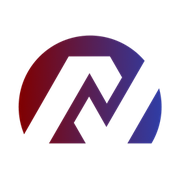
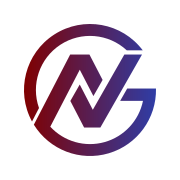
Add files via upload

diff --git a/index.html b/index.html
@@ -13,14 +13,15 @@
 <meta property="og:title" content="Nunn Group | Operations and HR consulting in Chicago">
 <meta property="og:description" content="Executive-level operations, HR, and planning consulting for small businesses and nonprofits. Work directly with Marc Nunn. Book a free 30-minute call.">
 <meta property="og:url" content="https://www.nunngroupllc.com/">
-<meta property="og:image" content="https://www.nunngroupllc.com/assets/img/og-image.jpg">
+<meta property="og:image" content="https://www.nunngroupllc.com/assets/img/og-image.jpg?v=2">
 <meta property="og:image:width" content="1200">
 <meta property="og:image:height" content="630">
 <meta property="og:image:alt" content="Nunn Group: executive-level operations and people strategy for organizations ready to grow">
 <meta name="twitter:card" content="summary_large_image">
-<link rel="icon" href="favicon.ico" sizes="any">
-<link rel="icon" href="assets/img/icon-192.png" type="image/png" sizes="192x192">
-<link rel="apple-touch-icon" href="apple-touch-icon.png">
+<link rel="icon" href="favicon.ico?v=2" sizes="32x32">
+<link rel="icon" href="favicon.svg?v=2" type="image/svg+xml">
+<link rel="icon" href="assets/img/icon-192.png?v=2" type="image/png" sizes="192x192">
+<link rel="apple-touch-icon" href="apple-touch-icon.png?v=2">
 <link rel="preload" href="assets/fonts/geist-variable.woff2" as="font" type="font/woff2" crossorigin>
 <link rel="stylesheet" href="assets/css/site.css?v=20261112">
 <!-- Opening logo animation. To turn it off, delete the next line. -->
@@ -49,7 +50,7 @@
 <header class="site-head">
   <div class="wrap head-in">
     <a class="brand" href="#top" aria-label="Nunn Group LLC, back to top">
-      <img src="assets/img/logo-white.png" alt="Nunn Group LLC" width="505" height="160">
+      <img src="assets/img/logo-white.svg" alt="Nunn Group LLC" width="449" height="160">
     </a>
     <nav class="nav" aria-label="Main">
       <a href="#services">Services</a>
@@ -499,7 +500,7 @@
   <div class="wrap">
     <div class="foot-top">
       <div class="foot-brand">
-        <img src="assets/img/logo-color.png" alt="Nunn Group LLC" width="505" height="160" loading="lazy" decoding="async">
+        <img src="assets/img/logo-color.svg" alt="Nunn Group LLC" width="449" height="160" loading="lazy" decoding="async">
         <p>Turning complexity into clarity. Operations and people strategy for businesses and&nbsp;nonprofits.</p>
       </div>
       <div class="foot-col">
@@ -843,46 +844,54 @@
 })();
 </script>
 <script>
-// Logo intro: plays once per visit (add ?intro to the address to replay it).
-// The sun rises, the N is etched through it, then the logo glides into the header.
+// Logo intro: plays once every 30 days on each device (add ?intro to the address to replay it).
+// The sun rises, the NG monogram is etched out of it, then the logo glides into the header.
 (function () {
   var root = document.documentElement, host = document.getElementById('intro');
   if (!root.classList.contains('intro-on') || !host) { root.classList.remove('intro-on'); return; }
-  var G = {"cx":105.59,"cy":105.46,"r":104.63,"fills":["M134.62 31.50 L74.12 31.75 L6.13 150.20 L9.41 167.10 L46.25 167.10 L42.88 162.95 L104.73 55.67 L130.07 100.84 L152.12 62.62 Z","M129.75 134.50 L104.18 90.13 L82.00 128.25 L101.83 163.34 L98.50 167.10 L161.25 167.10 L158.00 162.70 L209.50 73.55 L210.72 65.01 L205.19 52.89 L188.91 33.20 Z"],"traces":[["M45.10 159.10 L104.73 55.67 L130.07 100.84 L152.12 62.62 L134.62 31.50 L74.12 31.75 L9.12 145.00"],["M160.08 159.10 L206.50 78.75","M185.88 38.38 L129.75 134.50 L104.18 90.13 L82.00 128.25 L99.43 159.10"]],"word":"M358.8 145C357.4 145 356.1 144.8 355.1 144.4C354.6 144.3 353.9 144.1 353.6 144C353 143.8 350.9 142.8 349.9 142.2C348.2 141.2 346.1 139.2 344.9 137.6C344.1 136.6 343.1 134.8 342.9 134.2C342.8 134 342.6 133.7 342.5 133.5C342.4 133.3 342.1 132.8 342 132.3C341.9 131.8 341.7 131.1 341.5 130.7C341.4 130.3 341.1 129.3 341 128.6C340.7 126.7 340.7 122 341 120.2C341.2 118.8 342 116.4 342.4 115.4C342.6 115.1 342.9 114.5 343.1 114.1C343.3 113.5 343.7 112.9 344.9 111.2C345.3 110.6 347.3 108.5 347.9 108C349.9 106.5 351.8 105.4 354.1 104.7C356.1 104 357.5 103.8 360.4 103.8C363.3 103.8 364.6 104 366.7 104.7C370 105.8 372.4 107.3 374.7 109.8C375.3 110.5 375.9 111.1 375.9 111.2C376 111.3 376.2 111.7 376.4 111.9C376.8 112.4 377.1 112.9 377.8 114.3C378.6 115.8 378.9 116.6 379 117.2C379.1 117.5 379.3 118.3 379.4 118.8C379.9 120.2 380 121.6 380 124.4C380 127.2 379.9 128.5 379.4 129.9C379.3 130.5 379.1 131.2 379 131.6C378.9 132 378.6 132.7 378.4 133.2C378.2 133.6 378 134.1 378 134.2C378 134.2 377.8 134.6 377.6 135C377.3 135.4 377.1 135.8 377 136C376.8 136.4 376.1 137.4 375.2 138.4C372.4 141.7 369.3 143.6 364.7 144.7C364.3 144.8 363.3 144.9 362.4 145C360.8 145.1 360.4 145.1 358.8 145ZM247.6 144.9C247.1 144.8 246.3 144.6 245.9 144.5C245.4 144.4 244.7 144.2 244.2 144.1C243.8 143.9 243 143.6 242.4 143.4C241.8 143.1 241.3 142.9 241.3 142.9C241.2 142.9 240 142.1 238.8 141.2C237.7 140.5 235.7 138.4 234.9 137.3C234.6 136.9 234.2 136.2 233.9 135.7C233.7 135.2 233.4 134.7 233.3 134.6C233.2 134.5 233.1 134.3 233.1 134.1C233 133.9 232.8 133.3 232.6 132.9C232.4 132.4 232.1 131.5 231.9 130.8C231.8 130 231.5 129 231.4 128.5C231.2 127.7 231.2 127 231.2 124.3C231.2 121.1 231.2 121 231.6 119.5C231.8 118.6 232 117.7 232.1 117.5C232.2 116.8 233.1 114.8 233.8 113.3C235 111.1 237.6 108.4 239.7 107C241.1 106.1 242.8 105.2 243.6 105C243.9 104.9 244.6 104.7 245.1 104.6C246.3 104.1 247.3 104 249.8 103.9C252.1 103.8 254.6 104 255.7 104.3C259.3 105.3 261.5 106.4 263.8 108.5C264.8 109.3 266 110.7 266 110.9C266 110.9 266.2 111.2 266.4 111.4C266.7 111.8 266.9 112.2 267.7 113.6C268.1 114.5 268.6 115.7 268.6 116C268.6 116.2 268.6 116.4 268.5 116.5C268.2 116.7 265.6 116.8 265.2 116.6C264.8 116.4 264 115.5 264 115.2C264 114.9 262.9 113.3 262.1 112.4C261 111.1 258.7 109.4 257.4 108.9C257.1 108.8 256.7 108.6 256.6 108.5C256.1 108.3 255.1 108 253.3 107.7C248.5 107 243.7 108.3 240.5 111.3C239.3 112.5 238.6 113.3 237.9 114.5C237.7 114.9 237.4 115.3 237.3 115.4C237.2 115.5 237.1 115.8 237 116.1C236.9 116.3 236.7 116.8 236.5 117.2C236.2 117.8 235.8 119.6 235.4 121.8C235.3 122.6 235.2 123.5 235.3 125.1C235.3 126.9 235.4 127.5 235.8 129.2C236.1 130.5 236.4 131.4 236.6 131.9C236.8 132.3 237 132.8 237 132.9C237 133.1 237.2 133.4 238.2 134.9C239.2 136.5 239.6 136.9 240.9 138C243.8 140.3 247.1 141.4 251.1 141.4C255 141.4 258 140.4 260.8 138.1C262.1 137 263.4 135.6 264 134.3C264.2 134.1 264.4 133.6 264.6 133.4C264.8 133.2 265 132.7 265.1 132.4C265.1 132.1 265.4 131.6 265.5 131.2C265.8 130.5 266.4 127.5 266.3 127C266.1 126.2 266.3 126.2 258 126.2C253.8 126.3 250.3 126.2 250.2 126.2C249.7 126 249.5 125.1 249.7 124.1C249.9 123.2 249.3 123.3 259.9 123.2C271.2 123.2 269.9 123 270 125.1C270 126.8 269.8 129 269.5 130C269.4 130.4 269.2 131 269.1 131.4C268.9 132.2 267.8 134.9 267.4 135.4C267.3 135.6 267.1 136 267 136.2C266.5 137.3 263.8 140.3 262.4 141.3C259.6 143.2 258.6 143.7 254.9 144.7C254 144.9 248.9 145 247.6 144.9ZM414.9 144.9C413.8 144.7 411.5 143.9 410.4 143.3C408.6 142.4 406.9 140.8 405.9 139.3C405.6 138.9 405.3 138.5 405.3 138.4C405.2 138.4 405.1 138.2 405.1 138C405 137.8 404.8 137.3 404.6 136.9C404.2 135.9 404.2 135.9 403.7 133.9C403.5 133 403.3 131.5 403.2 130.6C403.2 129.7 403.1 123.5 403.1 116.8L403.1 104.7L403.4 104.4C403.7 104.1 403.8 104.1 405.2 104.1C406.4 104.1 406.6 104.2 406.9 104.3L407.1 104.6L407.1 116.4C407.1 123 407.2 129.1 407.2 130C407.4 132.3 408 134.8 408.7 136.1C409.2 137.2 410.2 138.4 410.8 138.9C411 139.1 411.4 139.3 411.6 139.5C412.3 140.1 414.2 140.8 415.2 141C416.6 141.2 419.6 141.2 420.7 141C421.9 140.7 423.7 139.8 424.7 139C425.5 138.3 426.8 136.6 427 136.1C427 135.9 427.2 135.5 427.4 135.1C428.2 133.2 428.2 132.3 428.3 118C428.3 111 428.3 105.1 428.3 104.9C428.4 104.3 428.9 104.1 430.5 104.1C431.5 104.1 431.8 104.2 432 104.4L432.3 104.6L432.4 116.1C432.4 129.9 432.2 133.4 431.6 135.2C431.4 135.6 431.2 136.2 431.1 136.6C430.5 138.2 429.4 140 428 141.3C427.1 142.2 426 143 425.9 143C425.8 143 425.5 143.2 425.1 143.4C424.2 143.9 421.8 144.7 420.6 144.9C419.5 145 416.1 145 414.9 144.9ZM498.8 144.3C497.8 143.8 497 142.9 496.9 142.4C496.9 142.2 496.8 141.8 496.7 141.4C496.5 140.8 496.5 140.7 496.6 140.2C496.7 139.8 496.8 139.3 496.9 139.1C496.9 138.8 497 138.4 497.1 138.3C497.4 137.8 498.5 136.9 498.8 136.9C498.9 136.9 499.2 136.8 499.4 136.6C499.9 136.3 501.1 136.3 501.4 136.6C501.6 136.7 501.9 136.8 502.2 136.9C502.5 137 502.9 137.2 503.3 137.7C504.1 138.5 504.1 138.4 503.9 138.8C503.7 139.1 503.3 139.1 503 138.6C502.8 138.4 502.5 138.1 502.3 138.1C502.1 137.9 501.8 137.7 501.6 137.6C501 136.9 500 136.9 499.5 137.5C499.3 137.6 498.9 137.9 498.7 138C498.3 138.2 498.1 138.3 498.1 138.5C498 138.7 497.8 139.2 497.7 139.6C497.3 140.5 497.3 140.8 497.8 142C498.1 142.7 498.3 142.9 498.6 143.1C498.8 143.2 499.1 143.4 499.2 143.7C499.5 144 499.6 144 500.5 144C501.4 143.9 501.5 143.9 501.8 143.6C502 143.3 502.3 143.1 502.5 143C502.7 142.9 502.9 142.7 503 142.6C503.3 141.9 504.1 142.1 503.9 142.8C503.8 143 502.6 144.2 502.4 144.2C502.3 144.2 502.1 144.4 501.8 144.6C501.4 144.8 501.2 144.9 500.5 144.9C499.8 144.9 499.6 144.8 498.8 144.3ZM294.1 144.6C293.9 144.6 293.6 144.4 293.5 144.3C293.3 144.1 293.3 142.5 293.3 124.4C293.3 105.6 293.3 104.6 293.5 104.4C293.7 104.2 294.2 104.2 300.3 104.2C307.4 104.1 308.4 104.2 310.8 104.8C313.3 105.4 315.1 106.4 316.5 108.1C317.6 109.3 317.7 109.5 318.1 110.5C318.3 111 318.6 111.5 318.6 111.5C318.8 111.8 319 112.8 319.1 114.4C319.3 116.2 319.1 119 318.8 120.1C318.2 121.5 317.8 122.3 317.3 123C315.6 125.2 313.5 126.6 310.7 127.2C310 127.3 309.2 127.6 309.1 127.7C308.5 128 308.7 128.6 309.4 129.5C309.6 129.8 310 130.2 310.2 130.6C311.6 132.7 313.1 135.1 313.6 135.6C314.1 136.4 314.7 137.3 314.9 137.7C315.1 137.9 315.3 138.3 315.5 138.5C315.7 138.7 315.9 139.1 316.1 139.3C316.2 139.5 316.6 140.1 316.9 140.6C317.3 141.1 317.8 141.8 317.9 142.1C318.1 142.4 318.4 142.8 318.6 143.1C319.1 143.5 319.3 144.2 318.9 144.5C318.7 144.7 318.4 144.7 317 144.7L315.4 144.7L314.8 144.2C314.6 143.9 314.2 143.4 314 143.1C313.8 142.8 313.3 142 312.9 141.3C310.8 138.2 310.3 137.4 309.2 135.7C309 135.4 308.7 134.9 308.5 134.8C308.4 134.6 308.1 134.2 308 133.9C307.7 133.4 307.1 132.5 306.5 131.6C306.3 131.3 305.7 130.4 305.2 129.7C303.9 127.7 304.1 127.8 300.9 127.8C297.7 127.8 297.9 127.8 297.6 128.1C297.4 128.4 297.4 128.5 297.4 136.2L297.4 144L297.1 144.3C296.8 144.7 296.7 144.7 295.7 144.7C295.1 144.7 294.4 144.7 294.1 144.6ZM457.3 144.6C457.2 144.6 457.1 144.3 457 144C456.9 143.7 456.9 137.1 456.9 124.2L456.9 104.8L457.1 104.5L457.4 104.1L464.6 104.2C472.1 104.2 471.8 104.2 474.5 104.9C478.3 105.8 481.3 108.9 482.1 112.6C482.3 113.3 482.4 114.5 482.5 115.5C482.6 119.1 481.7 121.8 479.8 123.9C478.9 124.8 477.4 126 477.2 126C477.1 126 476.7 126.2 476.2 126.4C475.1 127 472.4 127.6 470 127.8C468.9 127.8 466.6 127.9 464.9 127.8C461.6 127.8 461.2 127.8 461.1 128.2C461 128.3 461 131.9 461 136.1C461 141.3 461 143.8 460.9 144.1C460.8 144.3 460.6 144.5 460.4 144.6C460 144.8 457.6 144.8 457.3 144.6ZM483.1 144.6C482.5 144.3 482.4 143.9 482.4 140.5C482.4 138.8 482.4 137.3 482.4 137.3C482.6 137.1 483.1 137.1 483.2 137.3C483.3 137.4 483.3 138.3 483.3 139.9C483.2 142.8 483.2 143.2 484 143.9C484.4 144.2 484.5 144.2 484.9 144.2C485.3 144.1 485.5 144.2 485.6 144.3C485.7 144.4 485.7 144.5 485.6 144.6C485.3 144.8 483.6 144.7 483.1 144.6ZM490.2 144.5C489.8 144.2 489.6 143.4 489.7 142.9C489.8 142.5 489.8 138.5 489.7 137.9C489.6 137.4 490 137 490.4 137.2C490.5 137.3 490.6 137.6 490.5 140C490.5 142.8 490.6 143.4 491.2 144C491.4 144.2 491.5 144.3 492 144.2C492.5 144.1 492.6 144.1 492.7 144.3C492.8 144.6 492.7 144.7 491.6 144.7C490.7 144.7 490.4 144.7 490.2 144.5ZM363.1 141.1C363.9 140.9 364.7 140.8 365 140.7C365.2 140.6 365.9 140.4 366.4 140.2C366.9 140 367.4 139.8 367.5 139.7C367.6 139.6 368 139.3 368.5 139.1C369.7 138.3 370.6 137.7 371.6 136.6C372.4 135.8 374 133.4 374 133.1C374 133.1 374.2 132.6 374.4 132.2C374.7 131.7 375.1 130.5 375.3 129.4L375.8 127.6L375.8 124.4L375.8 121.2L375.3 119.3C375.1 118.3 374.7 117.2 374.5 116.8C374.3 116.5 374.1 116 374.1 115.9C374 115.6 373.7 115 372.7 113.5C372.2 112.7 371 111.5 370.1 110.8C369.6 110.3 369.1 110 369.1 110C369 110 368.8 109.9 368.5 109.7C368.3 109.5 367.9 109.2 367.5 109.1C367.2 109 366.6 108.7 366.2 108.5C365.8 108.3 364.9 108 364.4 108C363.8 107.8 363 107.7 362.6 107.6C362.3 107.6 361.2 107.5 360.3 107.5C358.2 107.5 355.7 108 354.2 108.7C353.7 108.9 353.2 109.1 353.2 109.1C353 109.1 351.6 110 350.7 110.8C349.7 111.6 348.7 112.7 347.9 113.9C347.1 115 346.2 116.7 346 117.5C345.9 117.8 345.7 118.4 345.6 118.9C344.9 120.6 344.7 124.7 345.1 127.4C345.2 128.9 346 131.7 346.4 132.3C346.5 132.4 346.7 132.9 346.9 133.3C347.7 134.9 349.4 137 350.7 138C351.1 138.3 351.9 138.8 352.4 139.2C353.3 139.7 353.9 140 355.9 140.7C357.3 141.2 360.8 141.4 363.1 141.1ZM309.3 124.3C310.1 124.1 311 123.8 311.2 123.6C311.4 123.5 311.8 123.3 312 123.1C313.3 122.4 314.7 120.2 315 118.6C315.2 117.5 315.1 114.9 314.9 113.8C314.5 111.2 312.4 109 309.6 108.2C308.7 107.9 306.6 107.8 302.3 107.7C298.6 107.7 298.1 107.7 297.8 107.9C297.6 108 297.4 108.3 297.4 108.4C297.4 108.6 297.3 112.2 297.4 116.5L297.4 124.3L297.7 124.5C298 124.8 298.2 124.8 302.9 124.7L307.8 124.7L309.3 124.3ZM467.8 124.2C469.8 124.2 471.8 124.1 472.3 124C474.8 123.6 477.2 121.6 477.9 119.5C478.4 117.9 478.5 114.7 478 112.9C477.5 111 476.3 109.5 474.4 108.6C472.9 107.8 471.3 107.7 465.9 107.6C461.6 107.6 461.5 107.6 461.2 107.8C461 108.1 461 108.3 461 115.9C461 124.2 461 124 461.5 124.2C461.7 124.3 462.3 124.3 463 124.3C463.6 124.3 465.8 124.2 467.8 124.2ZM321 95C319.5 95 317.6 94.8 316.9 94.6C316.6 94.5 315.8 94.3 315.1 94.1C313.8 93.8 310.9 92.8 310.5 92.4C310.4 92.3 310 92.1 309.7 92C308.1 91.2 306.4 89.9 304.8 88.2C302.7 86.2 300.8 83.2 299.9 80.6C299.8 80.1 299.6 79.5 299.4 79.2C299.3 78.9 299.1 78 298.9 77.2C298.8 76.4 298.6 75.3 298.4 74.9C298 73 298 70.9 298 51.5C298 30.4 298 31.6 298.7 31.4C298.8 31.4 301.4 31.4 304.4 31.4L309.9 31.4L310.1 31.7L310.4 32L310.5 51.6C310.6 70.9 310.6 71.2 310.8 72.8C311 73.7 311.2 74.7 311.3 74.9C311.4 75.2 311.6 75.9 311.8 76.4C312.8 78.9 315.1 81.2 317.7 82.2C319.4 82.9 319.9 83 322.4 83.1C325.4 83.2 326.6 83 328.3 82.3C329.8 81.7 331 80.9 332.1 79.9C332.8 79.1 334 77.5 334 77.2C334 77.2 334.2 76.7 334.4 76.2C334.7 75.6 335 74.8 335.2 73.8C335.3 72.9 335.5 72 335.6 71.8C335.6 71.6 335.7 62.6 335.7 51.7L335.8 32L336.1 31.7L336.4 31.4L342 31.4L347.6 31.4L347.9 31.7L348.2 32L348.2 49.6C348.3 71 348.2 73.4 347.4 76.6C347.2 77.3 347 78.2 346.9 78.6C346.8 79 346.6 79.4 346.6 79.6C346.5 79.7 346.3 80.2 346.1 80.6C346 81.1 345.7 81.8 345.4 82.2C345.2 82.7 345 83.1 345 83.2C345 83.3 343.9 85 343.4 85.7C342.1 87.5 340.6 89 339.1 90.2C336.9 91.8 333.2 93.6 330.7 94.1C330.1 94.3 329.4 94.4 329.1 94.5C327.9 94.9 323.6 95.2 321 95ZM231.3 94.2L231 93.8L231 62.9L231 32L231.3 31.7L231.6 31.4L237.5 31.4C243.9 31.4 243.5 31.4 244.1 32.2C244.2 32.4 244.6 33 244.9 33.5C245.3 34 245.7 34.6 245.8 34.8C245.9 35 246.4 35.7 246.9 36.4C247.3 37.1 247.8 37.8 247.9 38C248 38.2 248.3 38.6 248.6 39.1C248.8 39.5 249.1 39.9 249.2 40C249.4 40.3 250 41.2 250.4 41.8C250.7 42.2 251.2 43 251.7 43.9C251.8 44.1 252.2 44.6 252.5 45C252.8 45.4 253 45.8 253 45.9C253 45.9 253.2 46.2 253.5 46.6C253.9 47.3 254.4 48 255.1 49C255.5 49.7 256.1 50.5 256.4 51C256.6 51.3 256.7 51.5 257.7 53C257.9 53.4 258.3 53.9 258.5 54.3C258.8 54.6 259 55 259 55.1C259 55.1 259.2 55.4 259.4 55.7C259.8 56.2 260 56.6 260.9 58C261.1 58.4 261.5 58.8 261.6 59.1C262.2 60 262.7 60.6 262.9 61.1C263.3 61.7 264.2 63 264.5 63.4C264.6 63.5 264.8 63.9 264.9 64.1C265.1 64.4 265.3 64.8 265.5 65C265.7 65.2 266 65.7 266.1 65.9C266.4 66.4 266.5 66.7 267.4 67.9C267.7 68.3 268 68.8 268.1 69C268.2 69.2 268.7 69.9 269.1 70.5C269.6 71.2 269.9 71.8 270 72C270.1 72.3 271.2 73.7 271.4 73.8C271.5 73.9 271.6 73.8 271.7 73.7C271.9 73.6 271.9 70.7 271.9 52.7L271.9 31.9L272.2 31.6C272.5 31.4 272.8 31.4 278.1 31.4L283.6 31.4L284 31.7L284.3 32L284.3 62.9L284.4 93.8L284 94.1L283.6 94.5L278.1 94.5C272 94.5 271.9 94.5 271.4 93.8C271 93.3 270.3 92.2 270 91.8C269.9 91.5 269.6 91 269.3 90.7C269.1 90.4 268.8 90 268.7 89.8C268.4 89.3 267.3 87.7 266.5 86.4C266.4 86.2 265.9 85.6 265.6 85C265.2 84.4 264.7 83.7 264.5 83.4C263.9 82.5 263.3 81.7 262.9 81C262.7 80.7 262.3 80 261.9 79.5C261.6 79 261.2 78.3 261 78.1C260.8 77.8 260.4 77.1 260.1 76.6C259.7 76.1 259.3 75.5 259.1 75.1C258.5 74.2 257.9 73.4 257.5 72.8C256.7 71.5 255.3 69.5 255 69C254.9 68.7 254.6 68.3 254.5 68.1C254.3 67.9 254 67.5 253.8 67.2C252.9 65.8 252.1 64.5 251.5 63.6C250.7 62.4 249.3 60.3 249 59.8C248.9 59.6 248.6 59.2 248.4 59C248.3 58.8 248 58.4 247.9 58.2C247.8 58 247.6 57.7 247.5 57.5C246.9 56.7 245.3 54.2 245 53.6C244.8 53.1 244.6 52.9 244.3 52.8C244.1 52.7 243.8 52.6 243.7 52.7C243.7 52.7 243.6 60.1 243.6 73.3C243.6 86.8 243.6 93.8 243.5 94C243.2 94.5 242.8 94.5 237.1 94.5L231.5 94.5L231.3 94.2ZM362.2 94.3C362.1 94.1 361.9 93.9 361.9 93.7C361.9 93.5 361.8 79.5 361.9 62.6L361.9 31.9L362.2 31.6C362.5 31.4 362.8 31.4 368.1 31.4C372.3 31.4 373.8 31.4 374.1 31.6C374.5 31.7 374.7 31.9 375.3 32.8C375.6 33.3 376.4 34.4 376.8 35.1C377.3 35.8 377.8 36.6 378 36.9C378.3 37.5 379.1 38.6 380.9 41.3C381.3 42 381.8 42.8 382 43.1C382.2 43.4 382.7 44.2 383.2 44.9C383.6 45.6 384.3 46.6 384.6 47.1C385 47.6 385.4 48.2 385.5 48.4C385.6 48.6 386.1 49.3 386.4 49.9C386.8 50.5 387.3 51.2 387.5 51.5C387.7 51.8 388.2 52.5 388.6 53.1C388.9 53.7 389.4 54.4 389.5 54.6C389.6 54.8 390.1 55.4 390.4 56C390.8 56.6 391.3 57.3 391.5 57.6C391.9 58.2 392.4 59 393.1 60C393.3 60.3 393.6 60.8 393.8 61.1C394.7 62.6 395 63 395.8 64.2C396.3 64.9 396.8 65.8 397 66C397.1 66.3 397.4 66.7 397.5 66.9C397.8 67.2 398 67.5 398.9 69C399.1 69.3 399.5 69.8 399.6 70.1C400.4 71.2 400.9 72 401.1 72.4C401.3 72.9 402.2 73.8 402.5 73.8C402.8 73.8 402.9 73.2 402.7 72.4C402.7 71.9 402.6 62.7 402.7 51.8L402.7 32L403 31.7L403.4 31.4L409 31.4L414.7 31.4L414.9 31.8C415.1 32 415.1 33 415.1 62.9C415.1 92.9 415.1 93.8 414.9 94.1L414.7 94.4L409 94.5C404.8 94.5 403.3 94.5 402.9 94.3C402.4 94.2 402.1 93.8 401 92C400.5 91.3 399.9 90.4 399.5 89.8C398.6 88.5 397.3 86.5 397.1 86.2C397 86 396.6 85.3 396.2 84.7C395.8 84.1 395.3 83.3 395.1 83C394.6 82.2 394 81.3 393.5 80.6C393.3 80.3 392.8 79.6 392.4 79C392.1 78.4 391.6 77.8 391.5 77.6C391.3 77.4 391.1 77 391 76.9C390.8 76.6 390.3 75.7 389.5 74.6C389.4 74.4 388.9 73.7 388.6 73.1C388.2 72.5 387.7 71.8 387.5 71.5C386.7 70.3 386.3 69.7 385.9 69.1C385.6 68.6 384.3 66.6 383.5 65.4C382.9 64.6 382.2 63.5 381.9 63.1C381.7 62.6 380.7 61.1 379.1 58.8C378.7 58.2 378.2 57.4 378 57.1C377.9 56.8 377.6 56.5 377.6 56.4C377.2 56 376.2 54.4 376 53.9C375.8 53.4 374.8 52.5 374.5 52.5C374.4 52.6 374.4 54.9 374.4 73.2L374.4 93.8L374 94.1L373.6 94.5L368 94.5C362.7 94.5 362.4 94.5 362.2 94.3ZM429.6 94.4C429.5 94.3 429.3 94.1 429.2 94C429.1 93.7 429.1 32.2 429.3 31.9C429.3 31.7 429.5 31.6 429.7 31.5C429.9 31.4 432.4 31.4 435.7 31.4L441.4 31.4L442 32C442.3 32.3 442.7 32.8 442.8 33.1C443 33.4 443.3 33.9 443.5 34.1C443.7 34.4 444 34.8 444.1 35.1C444.4 35.6 445 36.5 445.6 37.2C445.7 37.5 446 37.9 446.1 38.1C446.2 38.3 446.5 38.7 446.7 39C447.5 40.2 447.7 40.6 448.1 41.1C448.5 41.9 449.1 42.7 449.4 43.1C449.5 43.3 449.7 43.7 449.9 44C450.6 45 451 45.7 451.5 46.4C451.8 46.8 452 47.1 452 47.2C452 47.2 452.2 47.6 452.5 48C452.8 48.4 453.2 48.9 453.3 49.1C453.9 50.2 454.6 51.2 455.5 52.5C456.4 53.9 457 54.7 457.1 55C457.2 55.2 457.7 55.9 458.1 56.6C458.6 57.3 459.1 58 459.2 58.2C459.3 58.4 459.8 59.1 460.2 59.7C460.6 60.3 461 61 461.1 61.1C461.2 61.3 461.7 62.1 462.2 62.8C462.6 63.5 463.3 64.4 463.6 64.9C463.9 65.3 464.2 65.8 464.3 66C464.5 66.2 464.7 66.7 464.9 67C465.4 67.8 466 68.7 466.5 69.4C467.6 71 468 71.7 468.1 71.9C468.1 72 468.3 72.2 468.4 72.3C468.5 72.5 468.7 72.8 468.9 73.1C469.2 73.7 469.5 73.9 469.8 73.6C470 73.5 470 70.8 470 52.8C470 32.6 470 32.1 470.2 31.8L470.5 31.4L475.9 31.4C481.5 31.4 482.1 31.4 482.4 31.9C482.5 32.1 482.6 93.6 482.4 93.9C482.2 94.5 481.9 94.5 476 94.5L470.4 94.5L469.9 94.1C469.6 93.9 469.2 93.4 469 93.1C468.8 92.8 468.3 92 467.8 91.3C467.4 90.6 466.6 89.4 466.2 88.7C465.7 88 465.1 87.2 464.9 86.9C464.7 86.6 464.4 86 464.2 85.7C464 85.4 463.6 84.9 463.5 84.6C463.3 84.4 463 84 462.9 83.8C462.8 83.6 462.4 83 462.1 82.5C461.7 82 461.2 81.3 461.1 81C460.9 80.7 460.6 80.2 460.3 79.8C459.5 78.6 459.1 78 458.4 77C458.1 76.4 457.6 75.8 457.5 75.6C456.8 74.5 455.4 72.4 455.1 71.9C454.7 71.3 454.2 70.6 453.5 69.5C452.6 68.2 452.2 67.5 451.3 66.1C451.2 65.9 450.8 65.4 450.5 64.9C450.1 64.5 449.9 64 449.9 64C449.9 63.9 449.7 63.7 449.6 63.5C449.4 63.2 448.9 62.6 448.6 62C448.2 61.4 447.7 60.7 447.5 60.4C446.9 59.5 446.3 58.7 445.9 58C445.7 57.7 445.3 57 444.9 56.5C444.6 56 444.2 55.4 444.1 55.2C444 55 443.8 54.6 443.6 54.4C443.4 54.1 443.1 53.7 443 53.4C442.6 52.7 442.3 52.5 442 52.7C441.8 52.8 441.8 54 441.8 73.4L441.8 93.9L441.5 94.2C441.2 94.4 441.1 94.4 435.5 94.5C431.8 94.5 429.7 94.5 429.6 94.4Z"};
+  // The logo's own outlines, from assets/img/logo-white.svg (449.092 x 160). cuts and ext are what the laser removes from the sun.
+  var G = {"w":449.092,"cx":80.0,"cy":80.0,"r":80.0,"mono":"M9.709 118.199A80 80 0 0 1 143.959 31.945L124.601 31.945A65.564 65.564 0 0 0 18.181 101.839ZM11.938 122.042L55.951 37.051L79.351 37.051L95.273 67.796L84.125 87.338L67.598 55.424L31.835 124.483A65.564 65.564 0 0 0 144.234 93.136L116.587 93.136L125.072 78.263L159.981 78.263A80 80 0 0 1 11.938 122.042ZM72.832 125.453L56.174 93.285L67.54 73.361L83.402 103.99L121.59 37.051L143.024 37.051L92.592 125.453Z","cuts":["M124.60 31.95 A65.564 65.564 0 0 0 18.18 101.84 L9.71 118.20 A80 80 0 0 0 11.94 122.04 L20.94 104.66 A64 64 0 0 1 127.45 37.05 L143.02 37.05 L136.10 49.19 A64 64 0 0 1 143.98 78.26 L159.98 78.26 A80 80 0 0 0 143.96 31.95 ZM31.84 124.48 A65.564 65.564 0 0 0 144.23 93.14 L142.64 93.14 A64 64 0 0 1 32.60 123.00 Z","M92.59 125.45 L72.83 125.45 L56.17 93.28 L67.54 73.36 L83.40 103.99 L121.59 37.05 L130.38 37.05 A66.2 66.2 0 0 0 125.53 31.95 L124.60 31.95 A65.564 65.564 0 0 0 18.18 101.84 L17.78 102.61 A66.2 66.2 0 0 0 19.64 107.18 L55.95 37.05 L79.35 37.05 L95.27 67.80 L84.12 87.34 L67.60 55.42 L31.84 124.48 A65.564 65.564 0 0 0 144.23 93.14 L116.59 93.14 L125.07 78.26 L146.18 78.26 A66.2 66.2 0 0 0 137.37 46.97 Z"],"ext":"M159.98 78.26 L159.98 78.26 L163.98 78.18 A84 84 0 0 0 147.16 29.54 L143.48 32.31 A79.4 79.4 0 0 1 159.38 78.26 ZM9.71 118.20 L9.71 118.20 L6.19 120.11 A84 84 0 0 0 8.53 124.14 L11.94 122.04 L12.26 121.42 A79.4 79.4 0 0 1 10.24 117.91 Z","glow":["M9.71 118.20 A80 80 0 0 0 11.94 122.04 L20.94 104.66 A64 64 0 0 1 123.54 33.09 L124.60 31.94 A65.564 65.564 0 0 0 18.18 101.84 ZM31.84 124.48 A65.564 65.564 0 0 0 144.23 93.14 L142.64 93.14 A64 64 0 0 1 32.60 123.00 Z","M124.60 31.95 A65.564 65.564 0 0 0 123.76 31.17 L122.71 32.34 A64 64 0 0 1 127.45 37.05 L143.02 37.05 L136.10 49.19 A64 64 0 0 1 143.98 78.26 L159.98 78.26 A80 80 0 0 0 143.96 31.95 Z"],"traces":[["M9.709 118.199 L18.181 101.839 A65.564 65.564 0 0 1 124.601 31.945 L143.959 31.945","M31.835 124.483 A65.564 65.564 0 0 0 144.234 93.136 L116.587 93.136 L125.072 78.263 L159.981 78.263"],["M11.938 122.042 L55.951 37.051 L79.351 37.051 L95.273 67.796 L84.125 87.338 L67.598 55.424 L31.835 124.483","M56.174 93.285 L67.54 73.361 L83.402 103.99 L121.59 37.051 L143.024 37.051 L92.592 125.453 L72.832 125.453 Z"]],"word":"M235.831 93.136L223.61 93.136L196.221 51.533L196.221 93.136L184 93.136L184 31.945L196.221 31.945L223.61 73.895L223.61 31.945L235.831 31.945ZM261.137 31.945L261.137 67.828Q261.137 75.022 264.3 78.619Q267.464 82.215 273.444 82.215Q279.338 82.215 282.502 78.619Q285.665 75.022 285.665 67.828L285.665 31.945L297.8 31.945L297.8 67.828Q297.8 76.322 294.636 82.172Q291.473 88.023 285.882 90.883Q280.292 93.743 273.184 93.743Q262.177 93.743 255.59 87.156Q249.003 80.569 249.003 67.828L249.003 31.945ZM362.795 93.136L350.574 93.136L323.185 51.533L323.185 93.136L310.965 93.136L310.965 31.945L323.185 31.945L350.574 73.895L350.574 31.945L362.795 31.945ZM428.135 93.136L415.914 93.136L388.525 51.533L388.525 93.136L376.304 93.136L376.304 31.945L388.525 31.945L415.914 73.895L415.914 31.945L428.135 31.945ZM220.792 114.632L216.727 114.632Q215.223 110.678 211.631 108.228Q208.039 105.777 203.138 105.777Q198.906 105.777 195.481 107.782Q192.056 109.787 190.107 113.518Q188.158 117.249 188.158 122.206Q188.158 127.273 190.135 131.004Q192.112 134.735 195.593 136.74Q199.073 138.745 203.528 138.745Q207.482 138.745 210.768 136.991Q214.053 135.237 216.086 131.895Q218.119 128.554 218.453 124.043L202.136 124.043L202.136 121.092L221.85 121.092L221.85 124.544Q221.46 129.556 219.038 133.566Q216.615 137.576 212.522 139.887Q208.429 142.198 203.194 142.198Q197.625 142.198 193.282 139.664Q188.938 137.13 186.543 132.564Q184.149 127.997 184.149 122.206Q184.149 116.414 186.543 111.847Q188.938 107.281 193.254 104.747Q197.57 102.213 203.138 102.213Q209.821 102.213 214.443 105.555Q219.065 108.896 220.792 114.632ZM265.576 141.808L254.828 125.435L248.48 125.435L248.48 141.808L244.526 141.808L244.526 102.547L256.555 102.547Q263.182 102.547 266.439 105.666Q269.697 108.785 269.697 114.075Q269.697 118.976 266.941 121.871Q264.184 124.767 258.949 125.324L270.031 141.808ZM248.48 122.484L256.276 122.484Q265.743 122.484 265.743 114.298Q265.743 105.944 256.276 105.944L248.48 105.944ZM328.687 122.15Q328.687 127.941 326.209 132.536Q323.731 137.13 319.387 139.692Q315.043 142.253 309.586 142.253Q304.128 142.253 299.784 139.692Q295.441 137.13 292.963 132.536Q290.484 127.941 290.484 122.15Q290.484 116.358 292.963 111.792Q295.441 107.225 299.784 104.664Q304.128 102.102 309.586 102.102Q315.043 102.102 319.387 104.664Q323.731 107.225 326.209 111.792Q328.687 116.358 328.687 122.15ZM294.494 122.15Q294.494 127.106 296.471 130.837Q298.448 134.568 301.873 136.573Q305.298 138.578 309.586 138.578Q313.874 138.578 317.299 136.573Q320.723 134.568 322.7 130.837Q324.677 127.106 324.677 122.15Q324.677 117.194 322.7 113.462Q320.723 109.731 317.299 107.726Q313.874 105.722 309.586 105.722Q305.298 105.722 301.873 107.726Q298.448 109.731 296.471 113.462Q294.494 117.194 294.494 122.15ZM355.057 102.547L355.057 126.326Q355.057 132.619 357.814 135.571Q360.57 138.522 365.36 138.522Q370.149 138.522 372.85 135.571Q375.551 132.619 375.551 126.326L375.551 102.547L379.449 102.547L379.449 126.326Q379.449 134.29 375.606 138.244Q371.764 142.198 365.304 142.198Q358.844 142.198 355.001 138.244Q351.159 134.29 351.159 126.326L351.159 102.547ZM407.154 125.435L407.154 141.808L403.2 141.808L403.2 102.547L414.95 102.547Q421.577 102.547 424.835 105.61Q428.093 108.673 428.093 114.019Q428.093 119.477 424.724 122.456Q421.354 125.435 414.95 125.435ZM424.139 114.019Q424.139 110.01 421.911 107.921Q419.684 105.833 414.616 105.833L407.154 105.833L407.154 122.094L414.616 122.094Q419.684 122.094 421.911 120.006Q424.139 117.918 424.139 114.019ZM428.91 141.184L431.761 141.184L431.761 141.808L428.119 141.808L428.119 133.956L428.91 133.956ZM435.849 141.184L438.7 141.184L438.7 141.808L435.058 141.808L435.058 133.956L435.849 133.956ZM449.092 136.451L448.268 136.451Q447.956 135.604 447.232 135.103Q446.508 134.602 445.439 134.602Q444.626 134.602 443.963 135.003Q443.3 135.404 442.921 136.15Q442.543 136.896 442.543 137.887Q442.543 138.879 442.921 139.619Q443.3 140.36 443.963 140.761Q444.626 141.162 445.439 141.162Q446.508 141.162 447.232 140.661Q447.956 140.16 448.268 139.313L449.092 139.313Q448.713 140.516 447.789 141.201Q446.864 141.886 445.45 141.886Q444.369 141.886 443.523 141.374Q442.676 140.861 442.209 139.954Q441.741 139.046 441.741 137.887Q441.741 136.718 442.209 135.805Q442.676 134.891 443.523 134.385Q444.369 133.878 445.45 133.878Q446.864 133.878 447.789 134.563Q448.713 135.248 449.092 136.451Z"};
   var W = window.innerWidth, H = window.innerHeight;
   function clamp(v, a, b) { return Math.min(b, Math.max(a, v)); }
   function lerp(a, b, t) { return a + (b - a) * t; }
   function prog(t, a, b) { return clamp((t - a) / (b - a), 0, 1); }
   function eo(t) { return 1 - Math.pow(1 - t, 3); }
   function eio(t) { return t < .5 ? 4 * t * t * t : 1 - Math.pow(-2 * t + 2, 3) / 2; }
-  var S1 = clamp(Math.min(W * .3, H * .3), 110, 280) / 160, TX1 = W / 2 - 105.6 * S1, TY1 = H / 2 - 80 * S1 - H * .03;
-  var S2 = clamp(W * .62, 240, 520) / 505, TX2 = (W - 505 * S2) / 2, TY2 = (H - 160 * S2) / 2;
+  var S1 = clamp(Math.min(W * .3, H * .3), 110, 280) / 160, TX1 = W / 2 - G.cx * S1, TY1 = H / 2 - 80 * S1 - H * .03;
+  var S2 = clamp(W * .62, 240, 520) / G.w, TX2 = (W - G.w * S2) / 2, TY2 = (H - 160 * S2) / 2;
   var HY = TY1 + 160 * S1;
-  var circ = 'cx="' + G.cx + '" cy="' + G.cy + '" r="' + G.r + '"';
+  var circ = 'cx="' + G.cx + '" cy="' + G.cy + '" r="' + G.r + '"', box = 'x="-140" y="-140" width="440" height="460"';
+  // One mask for the solid sun and one for its glow. In the glow's mask the G's mouth fades out toward the sun's edge,
+  // so the glow spills into the opening the way light would, with no hard line where the sun used to end.
+  function cut(i, d, fill) { return '<path class="ngi-f' + i + '" d="' + d + '" fill="' + (fill || '#000') + '" opacity="0"/>'; }
+  function mask(id, parts) { return '<mask id="' + id + '" maskUnits="userSpaceOnUse" ' + box + '><rect ' + box + ' fill="#fff"/>' + parts + '</mask>'; }
   host.innerHTML = '<svg xmlns="http://www.w3.org/2000/svg" width="100%" height="100%" aria-hidden="true" focusable="false"><defs>' +
     '<radialGradient id="ngi-r"><stop offset="0" stop-color="#FF5A6D" stop-opacity=".62"/><stop offset=".45" stop-color="#9E1B32" stop-opacity=".34"/><stop offset="1" stop-color="#0A0E22" stop-opacity="0"/></radialGradient>' +
     '<radialGradient id="ngi-b"><stop offset="0" stop-color="#A6AFFF" stop-opacity=".5"/><stop offset=".45" stop-color="#2F3DA6" stop-opacity=".36"/><stop offset="1" stop-color="#0A0E22" stop-opacity="0"/></radialGradient>' +
-    '<linearGradient id="ngi-brand" gradientUnits="userSpaceOnUse" x1="0" y1="0" x2="211" y2="0"><stop offset="0" stop-color="#FF5A6D"/><stop offset="1" stop-color="#A6AFFF"/></linearGradient>' +
-    '<linearGradient id="ngi-deep" gradientUnits="userSpaceOnUse" x1="0" y1="0" x2="211" y2="0"><stop offset="0" stop-color="#9E1B32"/><stop offset="1" stop-color="#2F3DA6"/></linearGradient>' +
+    '<linearGradient id="ngi-brand" gradientUnits="userSpaceOnUse" x1="0" y1="0" x2="160" y2="0"><stop offset="0" stop-color="#FF5A6D"/><stop offset="1" stop-color="#A6AFFF"/></linearGradient>' +
+    '<linearGradient id="ngi-deep" gradientUnits="userSpaceOnUse" x1="0" y1="0" x2="160" y2="0"><stop offset="0" stop-color="#9E1B32"/><stop offset="1" stop-color="#2F3DA6"/></linearGradient>' +
     '<radialGradient id="ngi-sun" gradientUnits="userSpaceOnUse" cx="' + G.cx + '" cy="' + (G.cy - G.r * .15) + '" r="' + G.r + '"><stop offset="0" stop-color="#fff"/><stop offset=".5" stop-color="#fff" stop-opacity=".96"/><stop offset=".82" stop-color="#fff" stop-opacity=".55"/><stop offset="1" stop-color="#fff" stop-opacity=".08"/></radialGradient>' +
     '<linearGradient id="ngi-hz" x1="0" x2="1"><stop offset="0" stop-color="#FF5A6D" stop-opacity="0"/><stop offset=".3" stop-color="#FF5A6D" stop-opacity=".8"/><stop offset=".5" stop-color="#fff"/><stop offset=".7" stop-color="#A6AFFF" stop-opacity=".8"/><stop offset="1" stop-color="#A6AFFF" stop-opacity="0"/></linearGradient>' +
     '<filter id="ngi-bloom" x="-1" y="-1" width="3" height="3"><feGaussianBlur stdDeviation="14"/></filter>' +
     '<filter id="ngi-soft" x="-1" y="-1" width="3" height="3"><feGaussianBlur stdDeviation="2.2"/></filter>' +
-    '<clipPath id="ngi-clip"><rect x="-120" y="-120" width="460" height="279.1"/></clipPath>' +
-    '<mask id="ngi-cut" maskUnits="userSpaceOnUse" x="-120" y="-120" width="460" height="400"><rect x="-120" y="-120" width="460" height="400" fill="#fff"/>' +
-      G.fills.map(function (d) { return '<path class="ngi-f" d="' + d + '" fill="#000" opacity="0"/>'; }).join('') + '</mask></defs>' +
+    '<clipPath id="ngi-clip"><rect x="-140" y="-140" width="440" height="300"/></clipPath>' +
+    '<radialGradient id="ngi-mg" gradientUnits="userSpaceOnUse" cx="' + G.cx + '" cy="' + G.cy + '" r="' + G.r + '"><stop offset=".82"/><stop offset="1" stop-opacity="0"/></radialGradient>' +
+    mask('ngi-cut', cut(0, G.cuts[0]) + cut(0, G.ext) + cut(1, G.cuts[1])) +
+    mask('ngi-cutg', cut(0, G.glow[0]) + cut(0, G.glow[1], 'url(#ngi-mg)') + cut(1, G.cuts[1])) + '</defs>' +
     '<rect id="ngi-bg" width="100%" height="100%" fill="#0A0E22"/>' +
     '<g id="ngi-sky" opacity="0"><ellipse cx="' + (W / 2 - W * .11) + '" cy="' + HY + '" rx="' + W * .45 + '" ry="' + H * .34 + '" fill="url(#ngi-r)"/><ellipse cx="' + (W / 2 + W * .11) + '" cy="' + HY + '" rx="' + W * .45 + '" ry="' + H * .34 + '" fill="url(#ngi-b)"/></g>' +
     '<rect id="ngi-hl" x="' + W * .1 + '" y="' + (HY - 1) + '" width="' + W * .8 + '" height="1.5" fill="url(#ngi-hz)" opacity="0"/>' +
-    '<g id="ngi-mark"><g clip-path="url(#ngi-clip)"><g id="ngi-rise">' +
-      '<g mask="url(#ngi-cut)"><circle id="ngi-bloomc" ' + circ + ' fill="url(#ngi-brand)" filter="url(#ngi-bloom)" opacity="0"/></g>' +
-      '<g mask="url(#ngi-cut)"><circle id="ngi-base" ' + circ + ' fill="url(#ngi-brand)"/><circle id="ngi-sunf" ' + circ + ' fill="url(#ngi-sun)"/><circle id="ngi-white" ' + circ + ' fill="#fff" opacity="0"/></g>' +
-    '</g></g><g id="ngi-etch"></g><circle id="ngi-sg" r="11" fill="#FF5A6D" filter="url(#ngi-soft)" opacity="0"/><circle id="ngi-sp" r="3.2" fill="#fff" opacity="0"/></g>' +
+    '<g id="ngi-mark"><g id="ngi-disc" clip-path="url(#ngi-clip)"><g id="ngi-rise">' +
+      // The glow is the blurred, already-cut sun, so it follows the logo's shape; it is masked again to keep the cuts crisp.
+      // The unseen rect gives the masked group the glow's full size. Without it Safari cuts the glow off in a square around the sun.
+      '<g mask="url(#ngi-cutg)"><rect ' + box + ' fill-opacity="0"/><g id="ngi-bloomc" filter="url(#ngi-bloom)" opacity="0"><g mask="url(#ngi-cutg)"><circle ' + circ + ' fill="url(#ngi-brand)"/></g></g></g>' +
+      '<g mask="url(#ngi-cut)"><circle ' + circ + ' fill="url(#ngi-brand)"/><circle ' + circ + ' fill="url(#ngi-sun)"/><circle id="ngi-white" ' + circ + ' fill="#fff" opacity="0"/></g>' +
+    '</g></g><path id="ngi-mono" d="' + G.mono + '" fill="#fff" display="none"/><g id="ngi-etch"></g><circle id="ngi-sg" r="11" fill="#FF5A6D" filter="url(#ngi-soft)" opacity="0"/><circle id="ngi-sp" r="3.2" fill="#fff" opacity="0"/></g>' +
     '<g id="ngi-word" opacity="0"><path d="' + G.word + '" fill="#fff"/></g></svg>';
   host.style.background = 'transparent';
   function $(id) { return document.getElementById(id); }
   function op(id, v) { var e = $(id); e.setAttribute('opacity', v); e.setAttribute('visibility', v > .002 ? 'visible' : 'hidden'); }   // fully faded layers are skipped, not painted
-  var fills = host.querySelectorAll('.ngi-f'), runs = [], NS = 'http://www.w3.org/2000/svg';
+  var fills = [host.querySelectorAll('.ngi-f0'), host.querySelectorAll('.ngi-f1')], runs = [], NS = 'http://www.w3.org/2000/svg';
   G.traces.forEach(function (shape, si) {
     shape.forEach(function (d) {
       var glow = document.createElementNS(NS, 'path'), core = document.createElementNS(NS, 'path');
@@ -899,8 +908,11 @@
   function invE(y) { var lo = 0, hi = 1; for (var i = 0; i < 24; i++) { var m = (lo + hi) / 2; if (eio(m) < y) lo = m; else hi = m; } return (lo + hi) / 2; }
   // timeline in seconds
   var E0 = .65, E1 = 1.45, GL0 = 2.25, GL1 = 2.85, brand = document.querySelector('.brand img'), target = null;
+  function settled(t) { return eio(prog(t, 1.5, 2.05)); }
+  // The lettering fades in from 1.65 on a wide screen. On a phone it waits until all of it fits, so it is never cut off at the edge.
+  var WT = 1.65; while (WT < 2.05 && lerp(TX1, TX2, settled(WT)) + (G.w + 40) * lerp(S1, S2, settled(WT)) > W - 8) WT += .01;
   function seek(t) {
-    var rise = eo(prog(t, .1, .8)), cool = prog(t, 1.4, 1.85), settle = eio(prog(t, 1.5, 2.05)), w = eo(prog(t, 1.65, 2.15)), g = eio(prog(t, GL0, GL1));
+    var rise = eo(prog(t, .1, .8)), cool = prog(t, 1.4, 1.85), settle = settled(t), w = eo(prog(t, WT, Math.min(WT + .5, GL0 - .05))), g = eio(prog(t, GL0, GL1));
     if (g > 0 && !target) { var b = brand && brand.getBoundingClientRect(); target = b && b.width ? { x: b.left, y: b.top, s: b.height / 160 } : { x: TX2, y: TY2, s: S2 }; }
     var T = target || { x: TX2, y: TY2, s: S2 };
     var s = lerp(lerp(S1, S2, settle), T.s, g), tx = lerp(lerp(TX1, TX2, settle), T.x, g), ty = lerp(lerp(TY1, TY2, settle), T.y, g);
@@ -912,8 +924,8 @@
     op('ngi-hl', .55 * prog(t, .05, .35) * (1 - prog(t, 1.2, 1.6)));
     op('ngi-bloomc', .95 * rise * (1 - eio(cool)));
     $('ngi-white').setAttribute('opacity', eio(cool));
-    // once the white sun is solid, drop the colored layers under it so no colored fringe shows at its edge
-    var under = cool >= 1 ? 'hidden' : 'visible'; $('ngi-base').setAttribute('visibility', under); $('ngi-sunf').setAttribute('visibility', under);
+    // once the sun is solid white and fully cut, the logo's own outline takes its place
+    $('ngi-disc').setAttribute('display', cool >= 1 ? 'none' : 'inline'); $('ngi-mono').setAttribute('display', cool >= 1 ? 'inline' : 'none');
     $('ngi-bg').setAttribute('opacity', 1 - eio(prog(t, GL0 + .2, GL1)));
     var drawn = eio(prog(t, E0, E1)) * total, a = 0, tip = null, fade = 1 - eio(prog(t, 1.45, 1.85));
     runs.forEach(function (r) {
@@ -922,10 +934,13 @@
       r.core.setAttribute('opacity', fade); r.glow.setAttribute('opacity', .9 * fade);
       if (d > 0 && d < r.L) tip = r.core.getPointAtLength(d);
     });
-    for (var i = 0; i < fills.length; i++) { var te = E0 + (E1 - E0) * invE(shapeEnd[i]); fills[i].setAttribute('opacity', eo(prog(t, te - .05, te + .3))); }
+    fills.forEach(function (set, i) {   // each cut falls away as the laser finishes tracing it: the ring first, then the N
+      var te = E0 + (E1 - E0) * invE(shapeEnd[i]), o = eo(prog(t, te - .05, te + .3));
+      for (var k = 0; k < set.length; k++) set[k].setAttribute('opacity', o);
+    });
     var sp = $('ngi-sp'), sg = $('ngi-sg');
     if (tip && t < E1 + .05) { sp.setAttribute('cx', tip.x); sp.setAttribute('cy', tip.y); sg.setAttribute('cx', tip.x); sg.setAttribute('cy', tip.y); sp.setAttribute('opacity', 1); sg.setAttribute('opacity', 1);
-      var k = clamp(tip.x / 211, 0, 1); sg.setAttribute('fill', 'rgb(' + Math.round(lerp(255, 166, k)) + ',' + Math.round(lerp(90, 175, k)) + ',' + Math.round(lerp(109, 255, k)) + ')'); }
+      var k = clamp(tip.x / 160, 0, 1); sg.setAttribute('fill', 'rgb(' + Math.round(lerp(255, 166, k)) + ',' + Math.round(lerp(90, 175, k)) + ',' + Math.round(lerp(109, 255, k)) + ')'); }
     else { sp.setAttribute('opacity', 0); sg.setAttribute('opacity', 0); }
   }
   var tc = 0, last = null, speed = 1.9, done = false;   // 1.9 = the whole animation in about 1.5 seconds

diff --git a/privacy.html b/privacy.html
@@ -13,14 +13,15 @@
 <meta property="og:title" content="Privacy notice | Nunn Group">
 <meta property="og:description" content="How Nunn Group LLC handles information sent through nunngroupllc.com.">
 <meta property="og:url" content="https://www.nunngroupllc.com/privacy.html">
-<meta property="og:image" content="https://www.nunngroupllc.com/assets/img/og-image.jpg">
+<meta property="og:image" content="https://www.nunngroupllc.com/assets/img/og-image.jpg?v=2">
 <meta property="og:image:width" content="1200">
 <meta property="og:image:height" content="630">
 <meta property="og:image:alt" content="Nunn Group: executive-level operations and people strategy for organizations ready to grow">
 <meta name="twitter:card" content="summary_large_image">
-<link rel="icon" href="favicon.ico" sizes="any">
-<link rel="icon" href="assets/img/icon-192.png" type="image/png" sizes="192x192">
-<link rel="apple-touch-icon" href="apple-touch-icon.png">
+<link rel="icon" href="favicon.ico?v=2" sizes="32x32">
+<link rel="icon" href="favicon.svg?v=2" type="image/svg+xml">
+<link rel="icon" href="assets/img/icon-192.png?v=2" type="image/png" sizes="192x192">
+<link rel="apple-touch-icon" href="apple-touch-icon.png?v=2">
 <link rel="preload" href="assets/fonts/geist-variable.woff2" as="font" type="font/woff2" crossorigin>
 <link rel="stylesheet" href="assets/css/site.css">
 </head>
@@ -29,7 +30,7 @@
 <header class="site-head">
   <div class="wrap head-in">
     <a class="brand" href="./" aria-label="Nunn Group LLC home">
-      <img src="assets/img/logo-white.png" alt="Nunn Group LLC" width="505" height="160">
+      <img src="assets/img/logo-white.svg" alt="Nunn Group LLC" width="449" height="160">
     </a>
     <a class="btn btn-ghost btn-sm" style="margin-left:auto" href="./">Back to the homepage</a>
   </div>

diff --git a/404.html b/404.html
@@ -12,14 +12,15 @@
 <meta property="og:site_name" content="Nunn Group LLC">
 <meta property="og:title" content="Page not found | Nunn Group">
 <meta property="og:description" content="This page doesn’t exist. Visit the Nunn Group homepage.">
-<meta property="og:image" content="https://www.nunngroupllc.com/assets/img/og-image.jpg">
+<meta property="og:image" content="https://www.nunngroupllc.com/assets/img/og-image.jpg?v=2">
 <meta property="og:image:width" content="1200">
 <meta property="og:image:height" content="630">
 <meta property="og:image:alt" content="Nunn Group: executive-level operations and people strategy for organizations ready to grow">
 <meta name="twitter:card" content="summary_large_image">
-<link rel="icon" href="/favicon.ico" sizes="any">
-<link rel="icon" href="/assets/img/icon-192.png" type="image/png" sizes="192x192">
-<link rel="apple-touch-icon" href="/apple-touch-icon.png">
+<link rel="icon" href="/favicon.ico?v=2" sizes="32x32">
+<link rel="icon" href="/favicon.svg?v=2" type="image/svg+xml">
+<link rel="icon" href="/assets/img/icon-192.png?v=2" type="image/png" sizes="192x192">
+<link rel="apple-touch-icon" href="/apple-touch-icon.png?v=2">
 <link rel="preload" href="/assets/fonts/geist-variable.woff2" as="font" type="font/woff2" crossorigin>
 <link rel="stylesheet" href="/assets/css/site.css">
 </head>
@@ -28,7 +29,7 @@
 <header class="site-head">
   <div class="wrap head-in">
     <a class="brand" href="/" aria-label="Nunn Group LLC home">
-      <img src="/assets/img/logo-white.png" alt="Nunn Group LLC" width="505" height="160">
+      <img src="/assets/img/logo-white.svg" alt="Nunn Group LLC" width="449" height="160">
     </a>
     <a class="btn btn-ghost btn-sm" style="margin-left:auto" href="/">Back to the homepage</a>
   </div>

diff --git a/README.md b/README.md
@@ -5,15 +5,19 @@ The Nunn Group LLC website, hosted on GitHub Pages. Built November 6, 2026.
 ## What's here
 - `index.html`: the homepage
 - `privacy.html`: the privacy notice (linked in the footer)
-- `404.html`: shown for broken or old links
+- `404.html`: shown for broken links
+- `contact.html`, `home.html`, `welcome.html`, `classes.html`: send links from the old Squarespace site to the new one
 - `assets/css/site.css`: colors, fonts, and layout
 - `assets/img`: logos, photos, the DBE seal, and the social preview image (`og-image.jpg`)
-- `assets/video`: the 1-minute overview video (MP4 and WebM) and its cover image
+- `assets/video`: the 1-minute overview video in two cuts, wide and tall (MP4 and WebM), and their cover images
 - `assets/fonts`: the Geist typeface (free to use under the SIL Open Font License, included as `OFL.txt`)
-- `favicon.ico`, `apple-touch-icon.png`: browser tab and phone home screen icons
+- `favicon.ico`, `favicon.svg`, `apple-touch-icon.png`: browser tab and phone home screen icons
 - `robots.txt` and `sitemap.xml`: for search engines
-- `.nojekyll`: tells GitHub to publish the files exactly as they are. Don't delete it.
+- `_config.yml`: keeps this README and the CNAME file off the public site. Don't delete it.
 - `CNAME`: GitHub adds this when the custom domain is set. Don't delete it.
+
+## Logo
+The logo changed in November 2026: the NG monogram replaced the circle N. The header shows `assets/img/logo-white.svg` and the footer shows `assets/img/logo-color.svg`. `assets/img/logo-color.png` is the copy search engines read, and `logo-white.png` is a spare. The tab and home screen icons are `favicon.ico`, `favicon.svg`, `apple-touch-icon.png`, and `assets/img/icon-192.png`. The logo is also drawn into the opening animation, both cuts of the overview video, their cover images, and the social preview image, so a future logo change means redoing those too. The master files are in the Nunn Group Logo Pack. If an icon or the social preview image is replaced again, raise the `?v=2` after its name in `index.html`, `privacy.html`, and `404.html`, so browsers fetch the new file.
 
 ## Change text
 1. Open `index.html` in this repository and click the pencil icon (Edit).
@@ -42,7 +46,7 @@ To hide the seal, open `index.html`, find `DBE SEAL START`, and delete everythin
 The "Watch the overview" button on Marc's photo plays `assets/video/nunn-group-overview.mp4`. Phones held upright play a tall version with larger type instead, `assets/video/nunn-group-overview-tall.mp4`. To swap in a new version of either one, upload new files with the same names. If the length changes, also update "1:00" on the button, "1 minute" in the video window, the transcript under the video, and the `duration` in the VideoObject data near the top of `index.html`. To remove the video, delete the line in `index.html` that starts with `<button type="button" class="play"`.
 
 ## Opening animation
-When someone opens the homepage, the logo animates (the sun rises, the N is etched through it) and then glides into the top-left corner. It takes about 1.5 seconds and plays once every 30 days on each device. It does not play on links that go straight to a section, such as /#contact. Any tap, click, scroll, or key press skips it. It never plays for visitors who have "reduce motion" turned on, or for search engines. To watch it again, open https://www.nunngroupllc.com/?intro. To turn it off, open `index.html`, find `Opening logo animation` near the top, delete the line right below it, and commit the change.
+When someone opens the homepage, the logo animates (the sun rises, the NG monogram is etched out of it) and then glides into the top-left corner. It takes about 1.5 seconds and plays once every 30 days on each device. It does not play on links that go straight to a section, such as /#contact. Any tap, click, scroll, or key press skips it. It never plays for visitors who have "reduce motion" turned on, or for search engines. To watch it again, open https://www.nunngroupllc.com/?intro. To turn it off, open `index.html`, find `Opening logo animation` near the top, delete the line right below it, and commit the change.
 
 ## Analytics
 Off until a Google Analytics 4 Measurement ID is added. In `index.html`, find `GA_MEASUREMENT_ID = ''` near the top and paste the ID between the quotes (it looks like `G-XXXXXXXXXX`). It then records visits, plus these events: booking clicks (`book_call_click`), messages sent (`generate_lead`), phone and email clicks (`phone_click`, `email_click`), growth check results (`growth_check_complete`, `growth_check_send`), video plays (`video_play`), and capabilities statement requests (`capabilities_request`).
